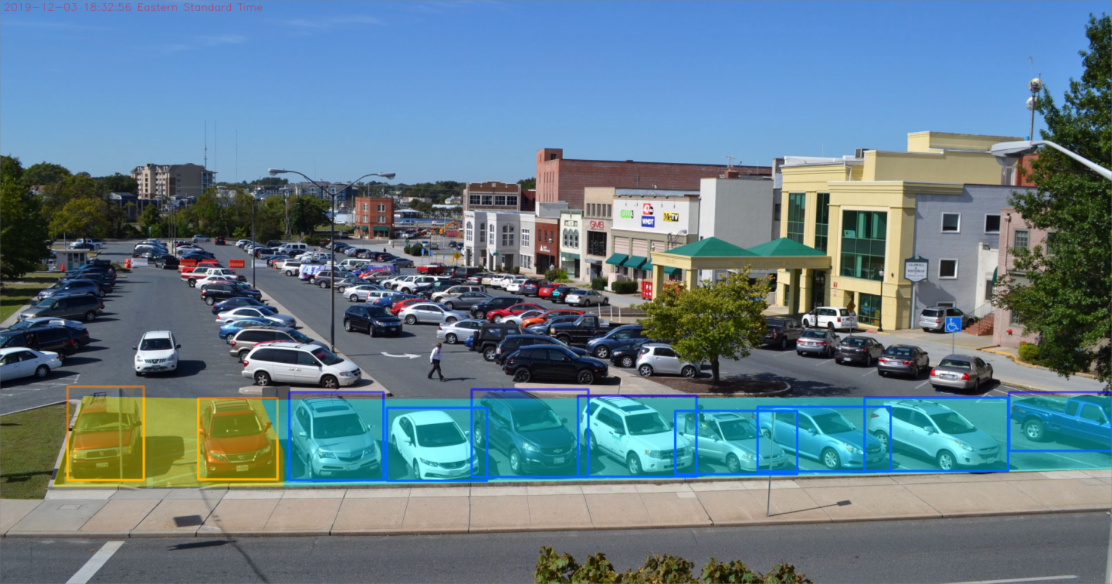
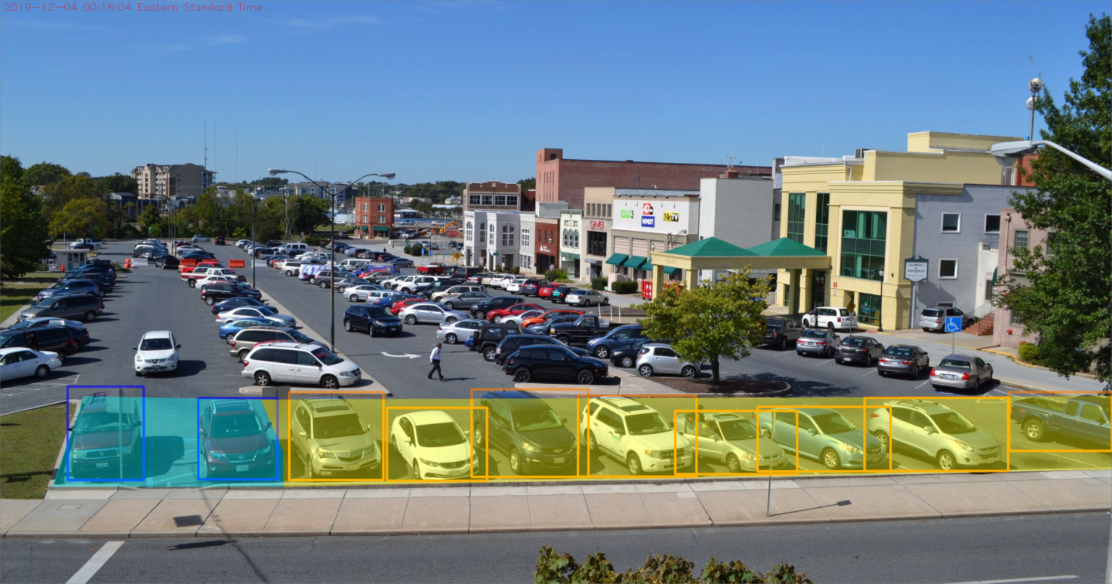
Corrected reversed colors in demos 4 and 5.

Changed region(s): [[0.0306, 0.6473, 1.0, 0.8322], [0.0612, 0.0, 0.1223, 0.0308]]

diff --git a/demos/demo5.py b/demos/demo5.py
@@ -100,9 +100,9 @@ for f in FRAME_SOURCE:
         poly_pts = ([[751, 1150], [3200, 1140], [3200, 1350], [816, 1400], [816, 1300]],
                     [[150, 1400], [815, 1400], [815, 1300], [750, 1150], [240, 1140]])
 
-        # BGR colors: Blue, Orange, Red, Gray, Cyan, Yellow, Pink, White
-        colors = [[255, 0, 0], [0, 127, 255], [0, 0, 255], [127, 127, 127], [
-            255, 255, 0], [0, 255, 255], [127, 0, 255], [255, 255, 255]]
+        # BGR colors: Orange, Blue, Red, Gray, Yellow, Cyan, Pink, White
+        colors = [[0, 127, 255], [255, 0, 0], [0, 0, 255], [127, 127, 127], [
+            0, 255, 255], [255, 255, 0], [127, 0, 255], [255, 255, 255]]
 
         # Make an overlay for transparent boxes
         overlay = frame.copy()

diff --git a/demos/demo4.py b/demos/demo4.py
@@ -33,9 +33,9 @@ for f in FRAME_SOURCE:
         poly_pts = ([[751, 1150], [3200, 1140], [3200, 1350], [816, 1400], [816, 1300]],
                     [[150, 1400], [815, 1400], [815, 1300], [750, 1150], [240, 1140]])
 
-        # BGR colors: Blue, Orange, Red, Gray, Cyan, Yellow, Pink, White
-        colors = [[255, 0, 0], [0, 127, 255], [0, 0, 255], [127, 127, 127], [
-            255, 255, 0], [0, 255, 255], [127, 0, 255], [255, 255, 255]]
+        # BGR colors: Orange, Blue, Red, Gray, Yellow, Cyan, Pink, White
+        colors = [[0, 127, 255], [255, 0, 0], [0, 0, 255], [127, 127, 127], [
+            0, 255, 255], [255, 255, 0], [127, 0, 255], [255, 255, 255]]
 
         # Make an overlay for transparent boxes
         overlay = frame.copy()

diff --git a/README.MD b/README.MD
@@ -1,5 +1,5 @@
 # Park!
 <img src="park_demo.gif" alt="" />
 <h2>Introduction</h2>
-<p>As an intern at NASA with the Digital Transformation Team, we worked on a lot of cool projects. Some of them involved machine learning, and, yes, this included a parking lot project with Georgia Tech (one of the interns from the previous team was from that school). Due to architecture, security requirements, etc., the actual production system was a bit complex, but here is a simplified version of the application. It includes the full stack; Linux scripting, SQL, Python, PHP HTML/CSS/JavaScript and cool computer vision and machine learning demos, so feel free to use whatever you need or the whole thing if you like!</p>
-<p>While the orginal system ran on three separate Red Hat Linux servers (one for the cron scripts, Python scripts, and back-end Apache HTTP Web Server; one for the front-end Apache HTTP Web Server; and one for the MySQL database), our system will run on a CentOS virtual machine using Nginx HTTP Web Server and a MySQL database.</p>
+<p>As an intern at NASA Langley's OCIO, we worked on a lot of cool projects. Some of them involved machine learning, and, yes, this included a parking lot project with Georgia Tech. Due to multiple security requirements, the actual production system was a bit complex, but here is a simplified version of the application. It includes the full stack; SQL, Python, Linux scripts, HTML, CSS, JavaScript, and PHP, as well as cool computer vision and machine learning demos; feel free to use whatever you need or the whole thing if you like!</p>
+<p>While the orginal system ran on three separate Red Hat Linux servers (i.e., scripts and back-end (Apache); front-end (Apache); and database (MySQL)), our system will run on a CentOS virtual machine using an Nginx HTTP Web Server and a MySQL database.</p>
